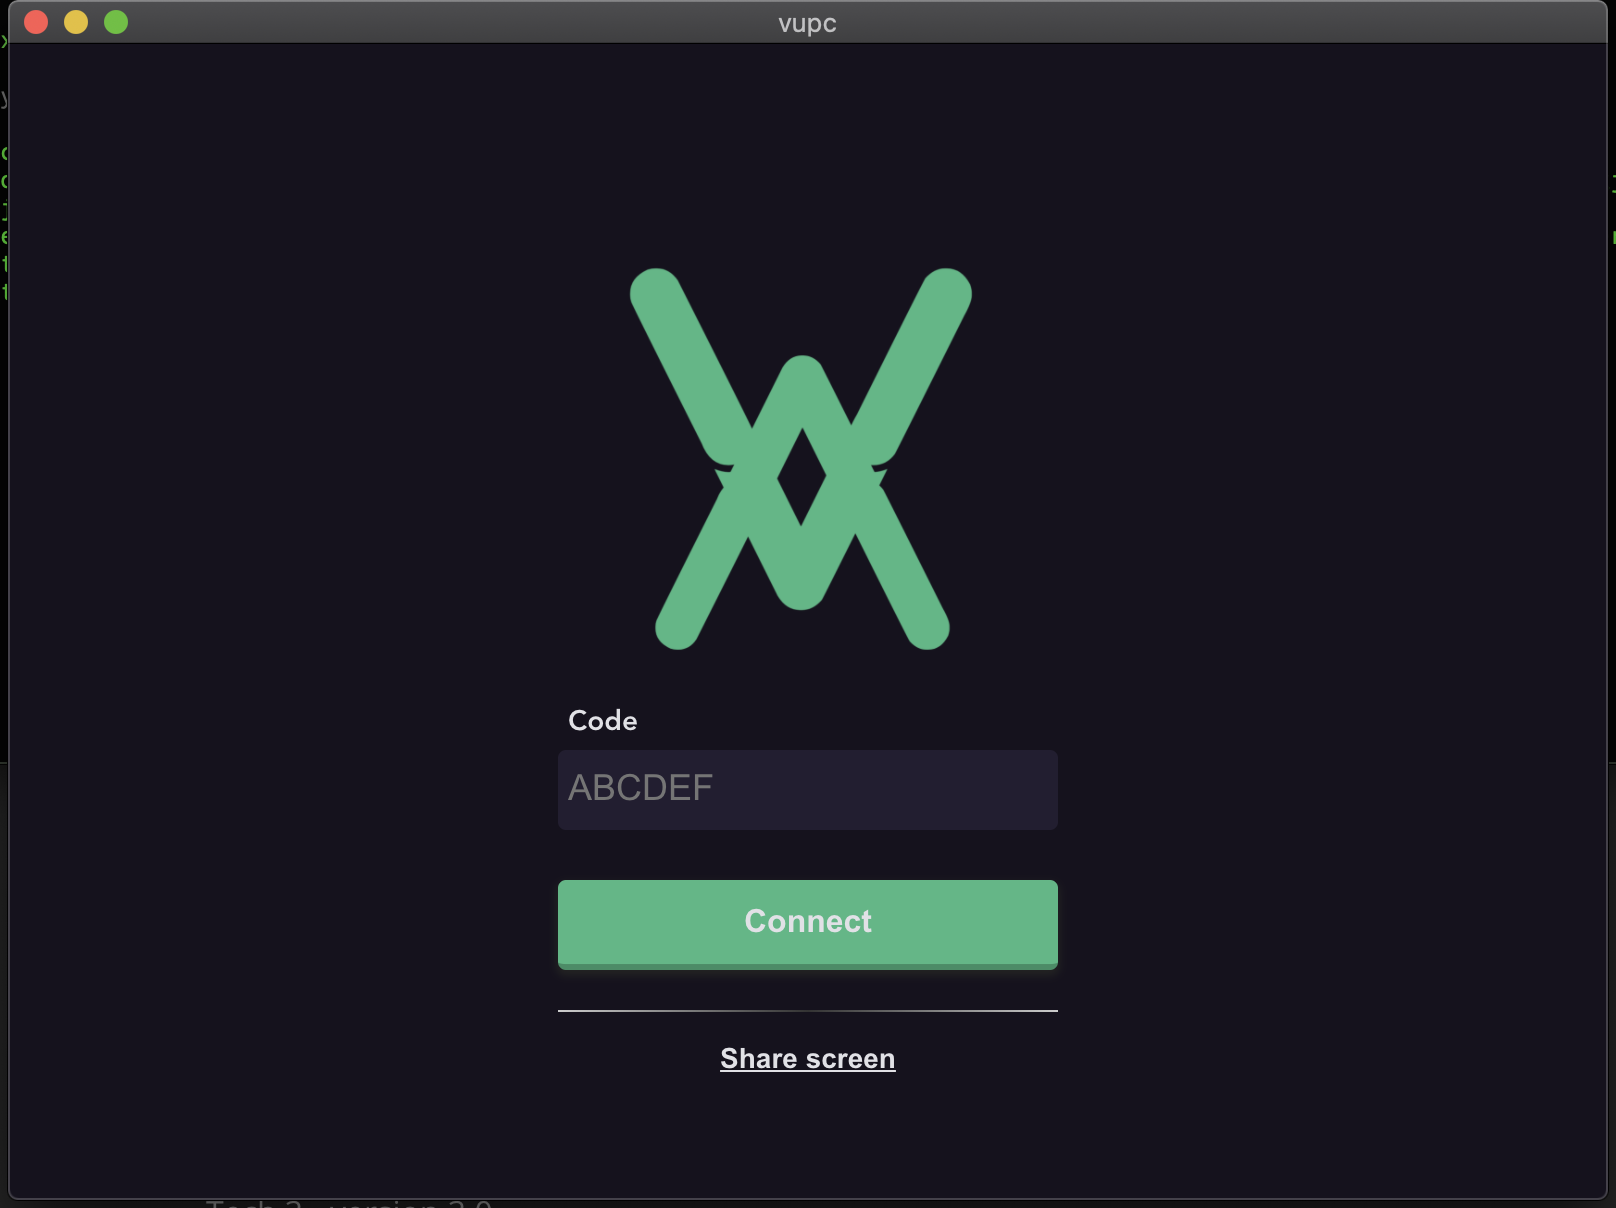
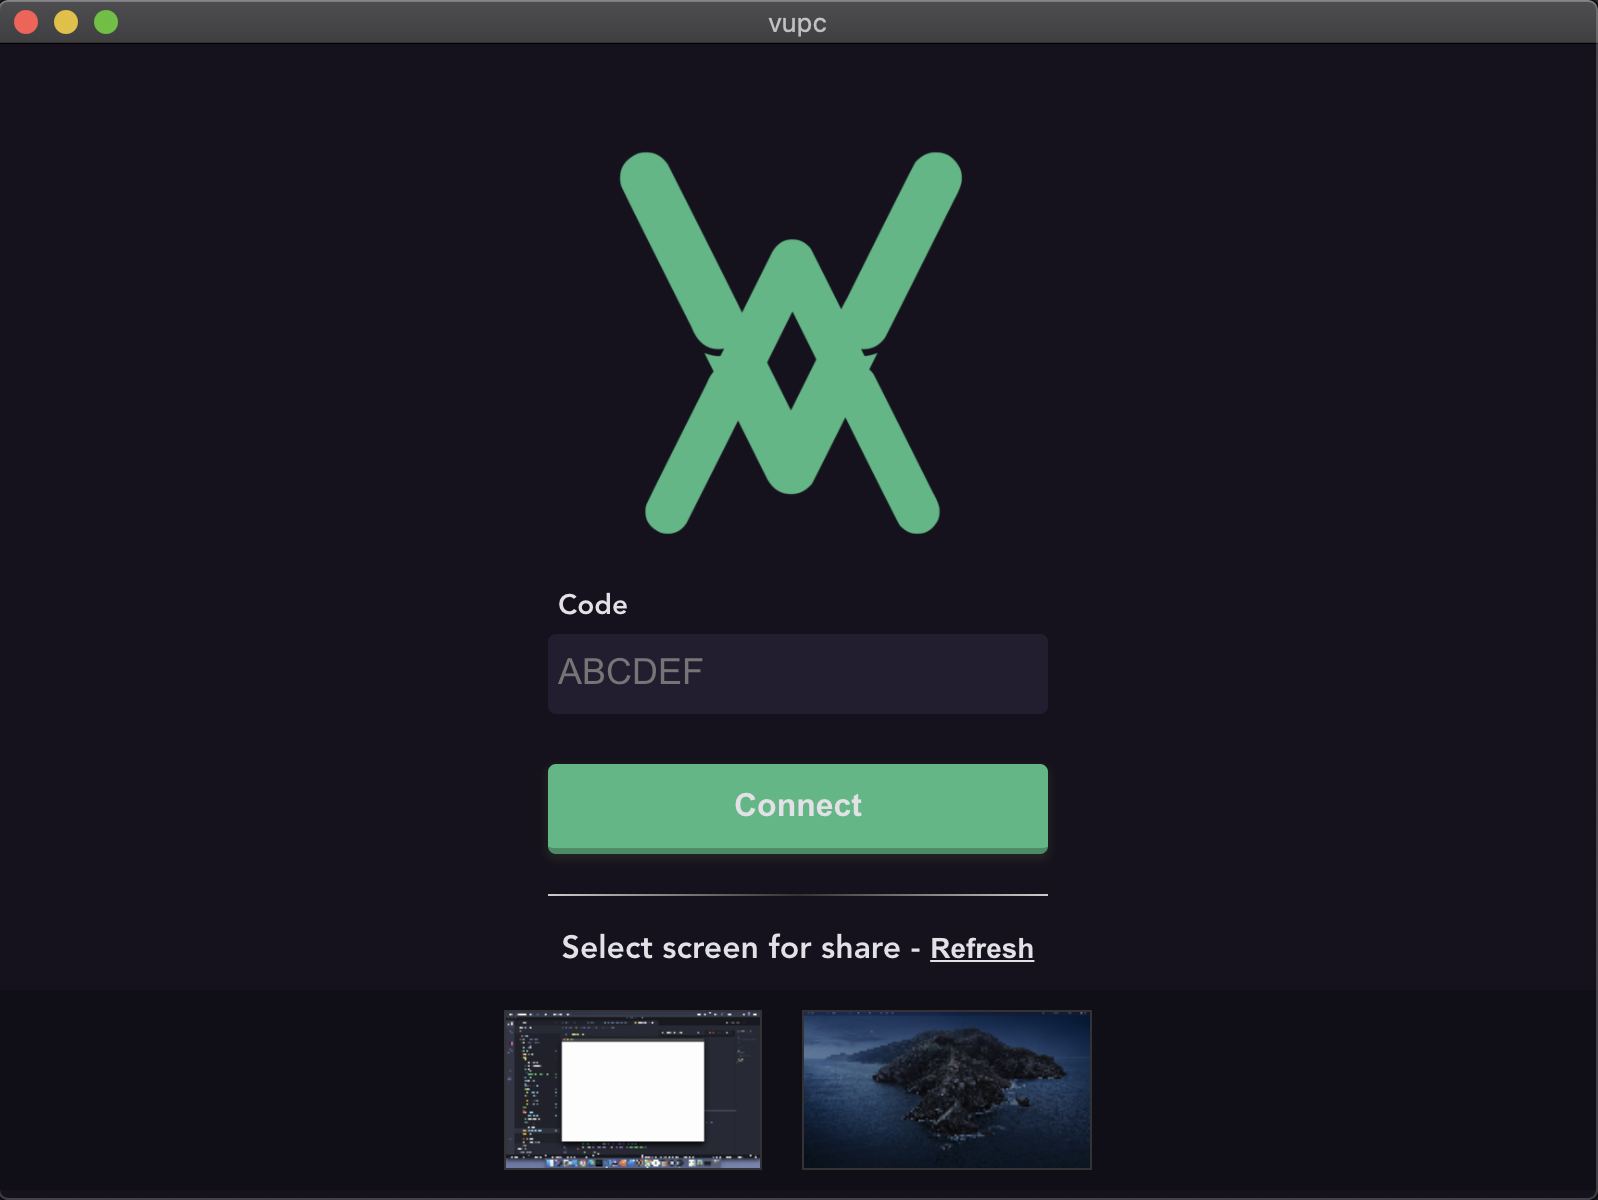
[ADD] support for multi screen

diff --git a/app/src/components/StreamSelector.vue b/app/src/components/StreamSelector.vue
@@ -1,0 +1,73 @@
+<template>
+  <div class="selector-container">
+    <span class="selector-title">Select screen for share - </span>
+    <ButtonLink text="Refresh" @click="handleRefresh" />
+    <div class="selector-content">
+      <img
+        class="selector-item"
+        v-for="stream in streams"
+        :key="stream.id"
+        :src="stream.thumbnail.toDataURL()"
+        @click.prevent="handleSelect(stream.id)"
+      />
+    </div>
+  </div>
+</template>
+
+<script>
+import ButtonLink from "@/components/ButtonLink";
+import { getAllStreams } from "@/core/util";
+
+export default {
+  name: "StreamSelector",
+  components: {
+    ButtonLink,
+  },
+  data() {
+    return {
+      streams: [],
+    };
+  },
+  methods: {
+    handleSelect(id) {
+      this.$router.push({ name: "Share", params: { screen: id } });
+    },
+    async handleRefresh() {
+      this.streams = await getAllStreams();
+    },
+  },
+  async mounted() {
+    this.streams = await getAllStreams();
+  },
+};
+</script>
+
+<style scoped>
+.selector-title {
+  color: #e1e1e6;
+  font-size: 16px;
+  font-weight: 700;
+}
+.selector-container {
+  margin-top: 15px;
+}
+.selector-content {
+  display: flex;
+  flex-direction: row;
+  align-items: center;
+  justify-content: center;
+  width: 100vw;
+  margin-top: 10px;
+  padding: 10px;
+  background-color: rgba(0, 0, 0, 0.24);
+  overflow: scroll;
+}
+.selector-item {
+  height: 80px;
+  margin: 0px 10px;
+  border: 1px solid #333;
+}
+.selector-item:hover {
+  border-color: #42b983;
+}
+</style>

diff --git a/app/src/core/util/index.js b/app/src/core/util/index.js
@@ -1,16 +1,11 @@
 import { desktopCapturer } from "electron";
 
-export async function captureStream() {
-  const sources = await desktopCapturer.getSources({
-    types: ["screen"],
-  });
-  const source = sources[0];
-  // const { width, height } = remote.screen.getPrimaryDisplay().size;
+export async function getStreamFromScreen(screenID) {
   const stream = await navigator.mediaDevices.getUserMedia({
     audio: false,
     video: {
       mandatory: {
-        chromeMediaSourceId: source.id,
+        chromeMediaSourceId: screenID,
         chromeMediaSource: "desktop",
         // maxWidth: 1280,
         // maxHeight: 800,
@@ -20,6 +15,13 @@ export async function captureStream() {
     },
   });
   return stream;
+}
+
+export async function getAllStreams() {
+  const sources = await desktopCapturer.getSources({
+    types: ["screen"],
+  });
+  return sources;
 }
 
 /**

diff --git a/app/src/views/Home.vue b/app/src/views/Home.vue
@@ -5,22 +5,22 @@
       <Input label="Code" placeholder="ABCDEF" @input="handleChangeCode" />
       <Button text="Connect" @click="handleConnect" />
       <hr />
-      <ButtonLink text="Share screen" @click="handleShare" />
     </div>
+    <StreamSelector />
   </div>
 </template>
 
 <script>
 import Input from "@/components/Input";
 import Button from "@/components/Button";
-import ButtonLink from "@/components/ButtonLink";
+import StreamSelector from "@/components/StreamSelector";
 
 export default {
   name: "Home",
   components: {
     Input,
     Button,
-    ButtonLink,
+    StreamSelector,
   },
   data() {
     return {
@@ -35,9 +35,6 @@ export default {
       if (this.code) {
         this.$router.push({ name: "Remote", params: { code: this.code } });
       }
-    },
-    handleShare() {
-      this.$router.push("share");
     },
   },
 };

diff --git a/app/src/core/webRTC/webRTC.js b/app/src/core/webRTC/webRTC.js
@@ -8,14 +8,14 @@ import {
   tellToOfferSendSignal,
 } from "../signaling";
 import {
-  captureStream,
+  getStreamFromScreen,
   transformFromPixelsToPercent,
   transformFromPercentToPixels,
 } from "../util";
 
-export async function createOffer() {
+export async function createOffer(screenID) {
   try {
-    const stream = await captureStream();
+    const stream = await getStreamFromScreen(screenID);
     const peerConfig = {
       initiator: true,
       trickle: false,
@@ -46,7 +46,6 @@ export async function createOffer() {
               availWidth: width,
               availHeight: height,
             } = webFrame.context.screen;
-            console.log(width, height);
             const size = {
               width,
               height,

diff --git a/app/src/background.js b/app/src/background.js
@@ -22,6 +22,8 @@ function createWindow() {
   win = new BrowserWindow({
     width: 800,
     height: 600,
+    minWidth: 800,
+    minHeight: 600,
     webPreferences: {
       // Use pluginOptions.nodeIntegration, leave this alone
       // See nklayman.github.io/vue-cli-plugin-electron-builder/guide/security.html#node-integration for more info
@@ -69,7 +71,6 @@ app.on("ready", async () => {
     // Install Vue Devtools
     try {
       await installExtension(VUEJS_DEVTOOLS);
-      console.log(screen.getPrimaryDisplay().workAreaSize);
     } catch (e) {
       console.error("Vue Devtools failed to install:", e.toString());
     }

diff --git a/app/src/views/Share.vue b/app/src/views/Share.vue
@@ -24,7 +24,8 @@ export default {
   },
   async mounted() {
     try {
-      this.rtcInstance = await createOffer();
+      const screen = this.$route.params.screen;
+      this.rtcInstance = await createOffer(screen);
       this.rtcInstance.onConnect(this.onConnect);
       this.rtcInstance.onConnect(this.onDisconnect);
       this.rtcInstance.onCode(this.onCode);

diff --git a/app/src/router/index.js b/app/src/router/index.js
@@ -11,7 +11,7 @@ const routes = [
     component: Home,
   },
   {
-    path: "/share",
+    path: "/share/:screen",
     name: "Share",
     // route level code-splitting
     // this generates a separate chunk (about.[hash].js) for this route

diff --git a/app/src/core/signaling/signaling.js b/app/src/core/signaling/signaling.js
@@ -1,7 +1,7 @@
 import io from "socket.io-client";
 
 let socket = null;
-const host = "http://localhost:4000";
+const host = "https://vupc.herokuapp.com";
 
 // Socket signaling events
 const FIND_ANSWER_WITH_CODE = "answer-want-connect";
